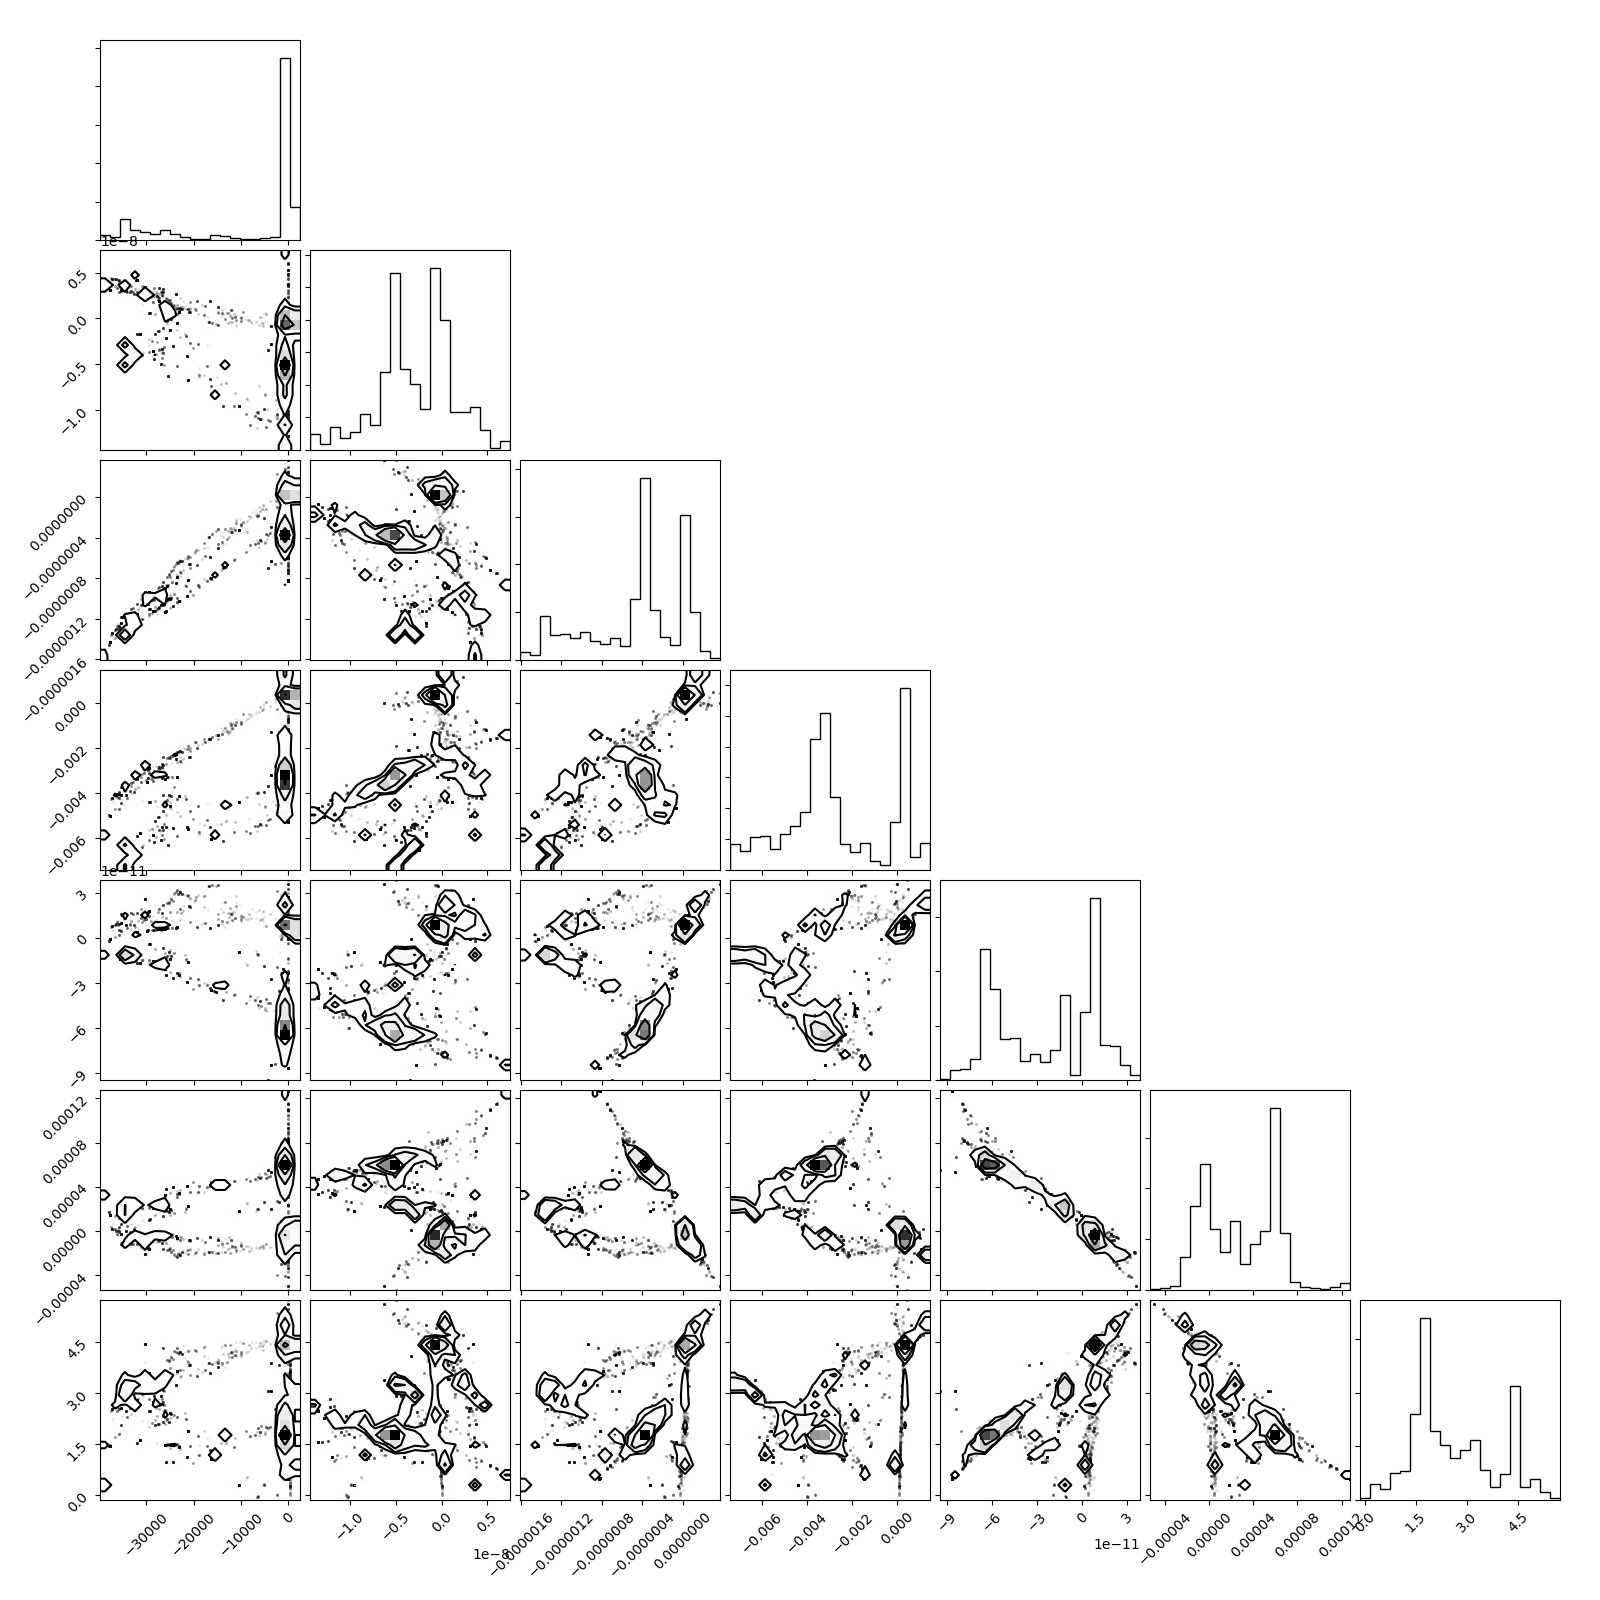
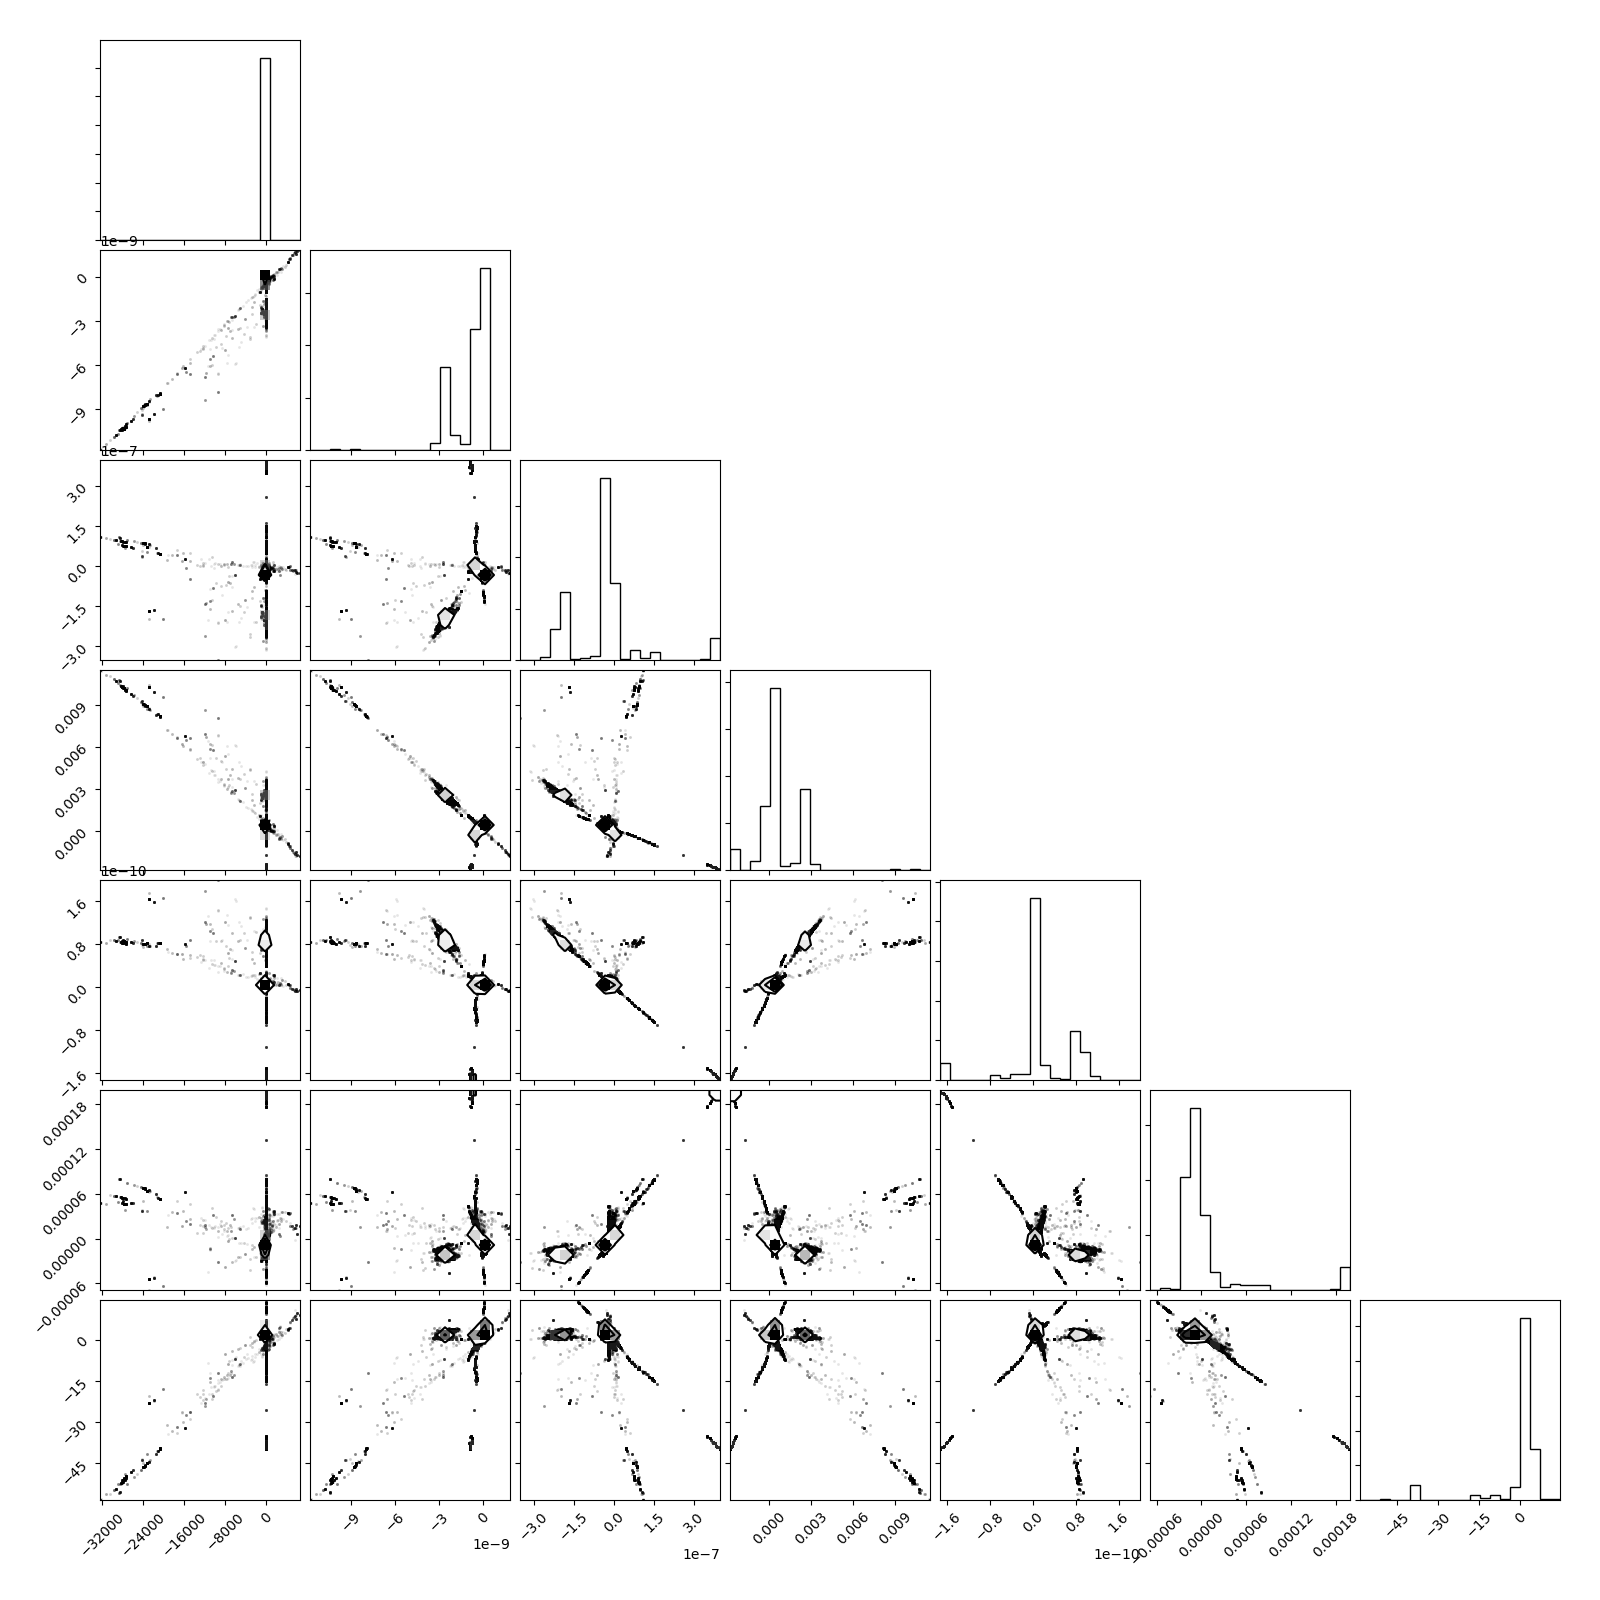
Got the optimization going before the MCMC.

diff --git a/MCMC_test.py b/MCMC_test.py
@@ -80,11 +80,17 @@ b = 5e-6
 c = 1
 guess = np.array([model_var, alpha, beta, gamma, a, b, c])
 
+#Find the best fit using the usual optimizer method
+nll = lambda *args: -lnpost(*args)
+print "Starting best fit"
+result = op.minimize(nll, guess, tol=1e-3)
+print "\tbest fit complete with ",result['success']
+
 #Set up the walkers in the MCMC
 nwalkers = len(guess)*2+2
-nsteps = 1000
+nsteps = 10000
 ndim = len(guess)
-pos = [guess + 1e-3*guess*np.random.randn(ndim) for k in range(nwalkers)]
+pos = [result['x'] + 1e-3*result['x']*np.random.randn(ndim) for k in range(nwalkers)]
 sampler = emcee.EnsembleSampler(nwalkers, ndim, lnpost, threads=4)
 print "Running MCMC"
 sampler.run_mcmc(pos, nsteps)
